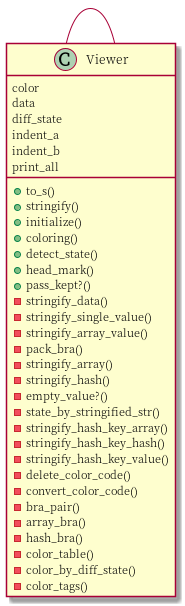
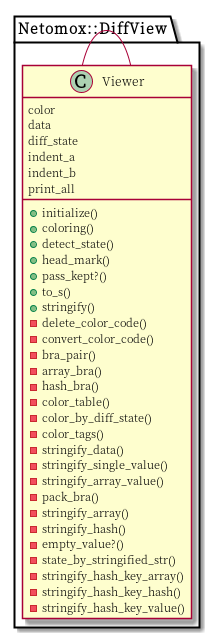
add uml diag modules

diff --git a/README.md b/README.md
@@ -114,12 +114,21 @@ In default, checker diff output only changed object and its parent object.
 * `-o FILE`/`--output FILE` option: save diff data to FILE (json data includes diff info for diff viewer).
 If specified `-o` and other options, ignored them.
 
-### Store topology data with Neo4j
+### Store topology data with Graph DB (Neo4j)
 
 Ready `db_info.json` file to store information to connect your Neo4j database.
 
 This application is using [neography](https://github.com/maxdemarzi/neography) to post the data into neo4j graph database.
 Execute like below
 ```
-bundle exec netomox graphdb target.json
+bundle exec netomox graphdb [--info|--clear] target.json
 ```
+* `-i FILE`/`--info FILE` option: graph db connection info file (if not specified, use `db_info.json`)
+* `-c`/`--clear` option: only deleting all data in graph (clear database and do not import graph data)
+
+## Development
+
+### Netomox UML Class diagrams
+
+Install PlantUML and exec `bundle exec rake fig`. Then, class diagrams will be created in `figs/` directory.
+
